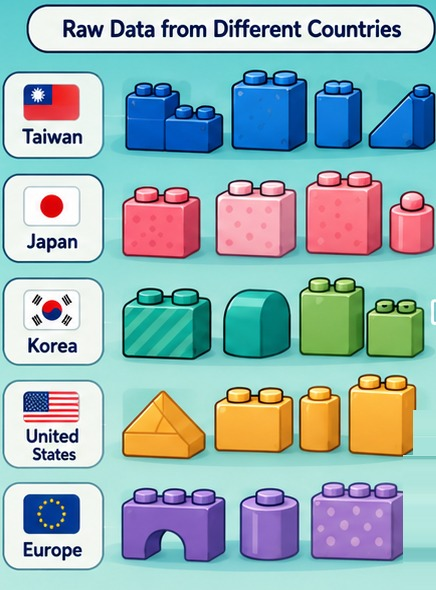
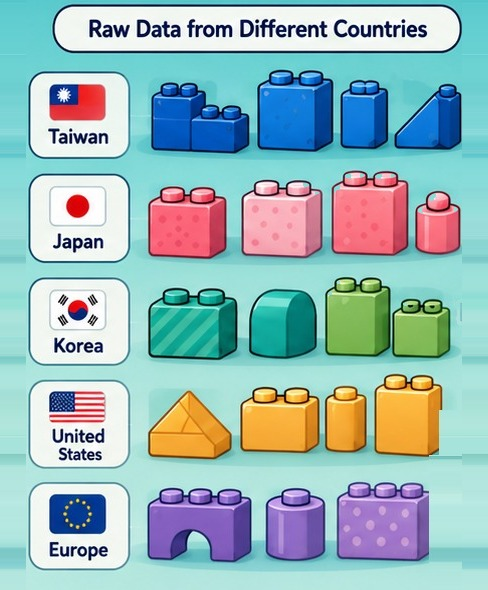
Add symmetric teal margins to raw-bricks; clear stray white specks
Both sides were cramped (left ~2px, right 0-35px). Pad 26px of per-row median teal on each side (488x590) so bricks breathe and stay symmetric; the gradient matches per row so no seam. Also overwrite leftover white specks in the teal gaps. methods.html dims updated to 488x590.

diff --git a/methods.html b/methods.html
@@ -75,7 +75,7 @@
           IMPRESIVE clicks them together into one shared build.</p>
       </div>
       <figure class="cdm-showcase reveal" style="max-width:440px;margin:1.4rem auto 0">
-        <img src="assets/img/raw-bricks.jpg" width="436" height="590" loading="lazy"
+        <img src="assets/img/raw-bricks.jpg" width="488" height="590" loading="lazy"
           alt="Raw data from different countries shown as assorted LEGO bricks — Taiwan (blue), Japan (pink), Korea (green), United States (orange) and Europe (purple), each a different shape and colour." />
         <figcaption>Raw data from each country arrives as different bricks — ready to be standardized and built together.</figcaption>
       </figure>